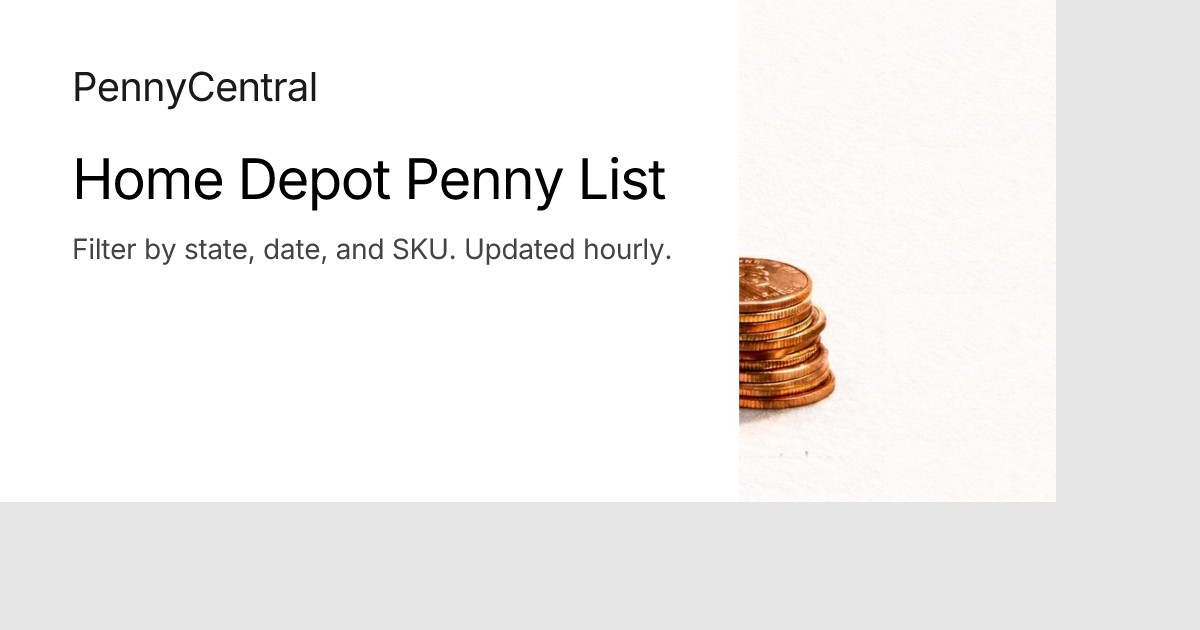
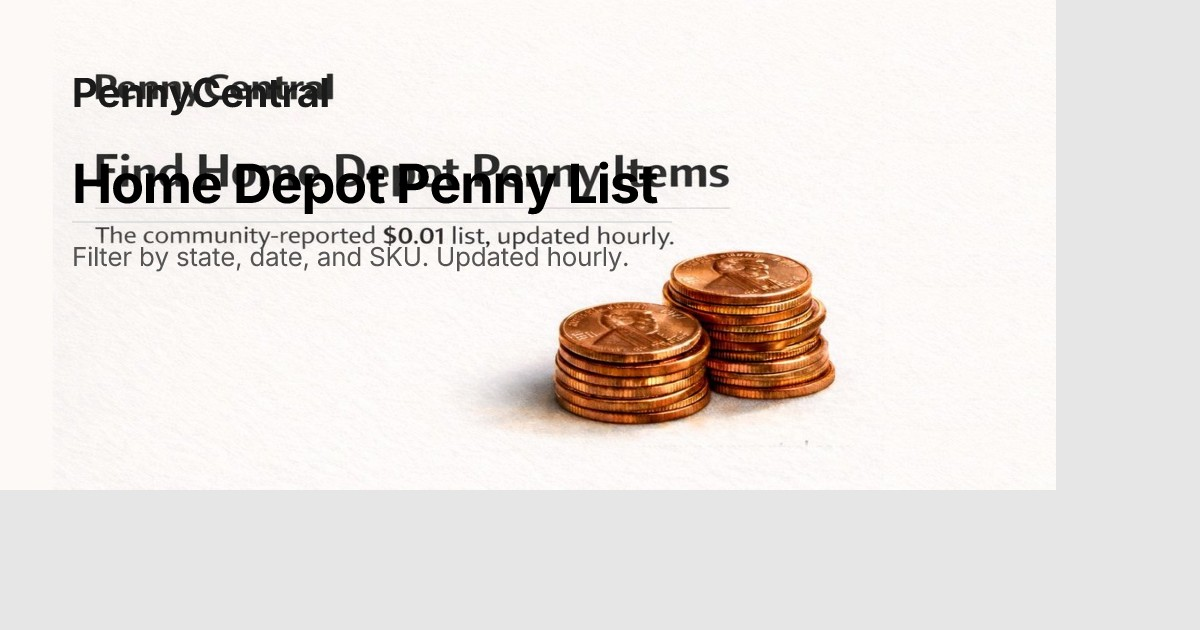
Match OG image typography to original design
Updates typography settings in OG route to faithfully recreate the reference design:
- Adjusted padding: PAGE_PADDING_TOP 64→70
- Reduced headline font sizes: 78/56→54/44
- Added underline below headline (2px gray)
- Refined subhead: smaller font (26px), adjusted spacing, lighter color (#555)
- Regenerated all 5 static OG images (homepage, penny-list, report-find, store-finder, guide)

All quality gates pass (lint, build, test:unit, test:e2e).

🤖 Generated with [Claude Code](https://claude.com/claude-code)

diff --git a/app/api/og/route.tsx b/app/api/og/route.tsx
@@ -18,7 +18,7 @@ const BACKGROUND_DATA_URL = OG_BACKGROUND_URL
 
 // Layout constants - text constrained to left 60% to avoid pennies
 const PAGE_PADDING_X = 72
-const PAGE_PADDING_TOP = 64
+const PAGE_PADDING_TOP = 70
 
 const CONTENT_MAX_WIDTH = 680 // Left 56% of 1200px for text, pennies on right
 const TEXT_COLUMN_MAX_WIDTH = CONTENT_MAX_WIDTH
@@ -74,11 +74,18 @@ const styles = {
   headlineLine: {
     display: "block",
   },
+  underline: {
+    marginTop: 8,
+    height: 2,
+    width: "100%",
+    maxWidth: 600,
+    background: "#e0e0e0",
+  },
   subhead: {
-    marginTop: 20,
-    fontSize: 28,
+    marginTop: 16,
+    fontSize: 26,
     fontWeight: 400,
-    color: "#444444",
+    color: "#555555",
     letterSpacing: "-0.01em",
     lineHeight: 1.35,
     textAlign: "left",
@@ -150,8 +157,8 @@ function layoutHeadline(headline: string) {
   const normalized = headline.trim().replace(/\s+/g, " ")
 
   // Prefer single line: shrink font slightly before breaking.
-  const singleSize = chooseLargestFittingFontSize(normalized, maxWidth, 78, 56)
-  if (singleSize > 56) return { lines: [normalized], fontSize: singleSize }
+  const singleSize = chooseLargestFittingFontSize(normalized, maxWidth, 54, 44)
+  if (singleSize > 44) return { lines: [normalized], fontSize: singleSize }
 
   const lines = splitHeadline(normalized)
   if (lines.length === 1) return { lines, fontSize: singleSize }
@@ -252,6 +259,9 @@ export async function GET(request: Request) {
               </div>
             ))}
           </div>
+
+          {/* Underline */}
+          <div {...({ style: styles.underline } as Record<string, unknown>)} />
 
           {/* Subhead with $0.01 highlighted in copper */}
           <div {...({ style: styles.subhead } as Record<string, unknown>)}>
